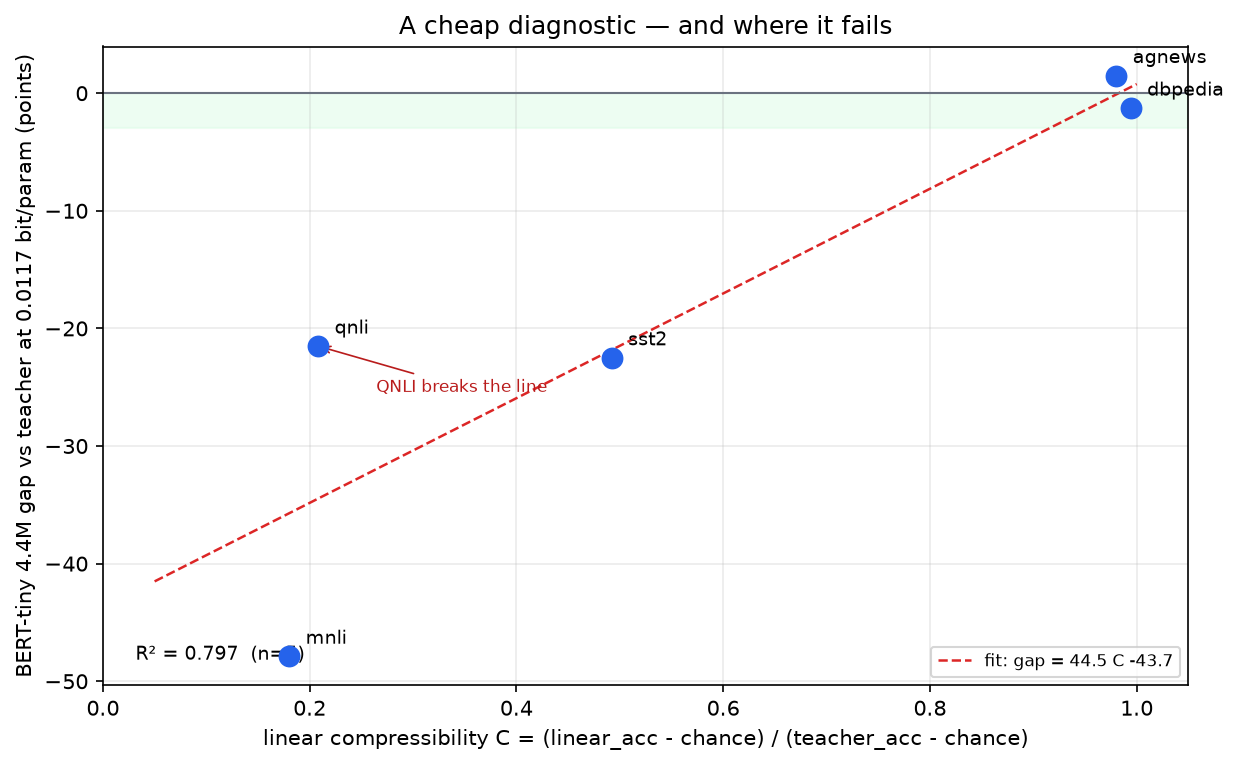
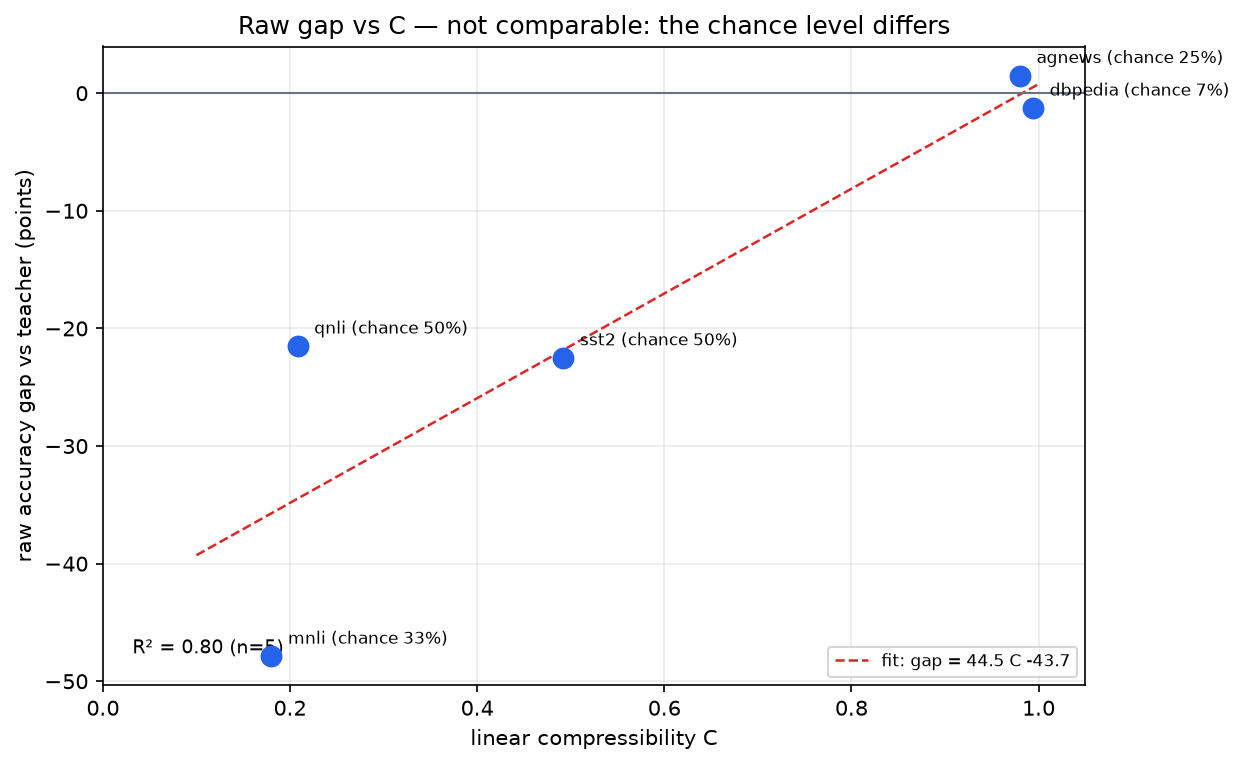
research: chance-normalized diagnostic - S = 1.04 C - 0.01, R2=0.965
- the raw accuracy gap is not comparable across chance levels
- normalized skill S is predicted by the cheap TF-IDF C almost 1:1
- five classification tasks: first predictive relationship, not a law

diff --git a/research/plot_diagnostic.py b/research/plot_diagnostic.py
@@ -1,4 +1,4 @@
-"""Plot the linear-compressibility diagnostic against the BERT-tiny gap."""
+"""Two diagnostic plots: the raw gap (misleading) and chance-normalized skill (predictive)."""
 import json
 from pathlib import Path
 
@@ -11,7 +11,8 @@ R = Path("research/results")
 OUT = Path("docs/figures")
 OUT.mkdir(exist_ok=True)
 
-TEACHER = {"agnews": 0.7525, "sst2": 0.9425, "mnli": 0.8471}
+TEACHER = {"agnews": 0.7525, "sst2": 0.9425, "mnli": 0.8471, "qnli": 0.8125, "dbpedia": 0.926}
+CHANCE = {"agnews": 25.0, "sst2": 50.0, "mnli": 100 / 3, "qnli": 50.0, "dbpedia": 100 / 14}
 FILES = {"agnews": "agnews_bert_tiny.json", "sst2": "sst2_bert_tiny.json",
          "mnli": "mnli_bert_tiny.json", "qnli": "qnli_bert_tiny.json",
          "dbpedia": "dbpedia_bert_tiny.json"}
@@ -33,38 +34,65 @@ for task, fname in FILES.items():
     c = c_map.get(task, d.get("C"))
     if c is None:
         continue
-    rows.append({"task": task, "C": c, "gap": row4["acc"] * 100 - teacher * 100})
+    student = row4["acc"] * 100
+    chance = CHANCE[task]
+    rows.append({"task": task, "C": c, "chance": chance,
+                 "gap": student - teacher * 100,
+                 "S": (student - chance) / (teacher * 100 - chance)})
 
 print(rows)
 x = np.array([r["C"] for r in rows])
-y = np.array([r["gap"] for r in rows])
-fig, ax = plt.subplots(figsize=(8.4, 5.2), dpi=150)
-ax.scatter(x, y, s=90, color="#2563eb", zorder=4)
-for r in rows:
-    ax.annotate(r["task"], (r["C"], r["gap"]), textcoords="offset points", xytext=(8, 6), fontsize=9)
-q = next((r for r in rows if r["task"] == "qnli"), None)
-if q:
-    ax.annotate("QNLI breaks the line", (q["C"], q["gap"]), textcoords="offset points",
-                xytext=(28, -22), fontsize=8, color="#b91c1c",
-                arrowprops=dict(arrowstyle="->", color="#b91c1c", lw=0.8))
-if len(rows) >= 2:
+gap = np.array([r["gap"] for r in rows])
+skill = np.array([r["S"] for r in rows])
+
+
+def fit_line(y):
     m, b = np.polyfit(x, y, 1)
-    xs = np.linspace(min(0.05, x.min()), max(1.0, x.max()), 100)
-    ax.plot(xs, m * xs + b, "--", color="#dc2626", lw=1.2,
-            label=f"fit: gap = {m:.1f} C {b:+.1f}")
     pred = m * x + b
     ss_res = float(((y - pred) ** 2).sum())
     ss_tot = float(((y - y.mean()) ** 2).sum())
-    r2 = 1 - ss_res / ss_tot if ss_tot else 0.0
-    ax.text(0.03, 0.04, f"R² = {r2:.3f}  (n={len(rows)})", transform=ax.transAxes, fontsize=9)
+    return m, b, (1 - ss_res / ss_tot if ss_tot else 0.0)
+
+
+# 1) raw gap — misleading because chance differs
+m, b, r2 = fit_line(gap)
+fig, ax = plt.subplots(figsize=(8.4, 5.2), dpi=150)
+ax.scatter(x, gap, s=90, color="#2563eb", zorder=4)
+for r in rows:
+    ax.annotate(f'{r["task"]} (chance {r["chance"]:.0f}%)', (r["C"], r["gap"]),
+                textcoords="offset points", xytext=(8, 6), fontsize=8)
+xs = np.linspace(0.1, 1.0, 100)
+ax.plot(xs, m * xs + b, "--", color="#dc2626", lw=1.2, label=f"fit: gap = {m:.1f} C {b:+.1f}")
+ax.text(0.03, 0.05, f"R² = {r2:.2f} (n={len(rows)})", transform=ax.transAxes, fontsize=9)
 ax.axhline(0, color="#6b7280", lw=1)
-ax.axhspan(-3, 0, color="#dcfce7", alpha=0.5, zorder=0)
 ax.set_xlim(0, 1.05)
-ax.set_xlabel("linear compressibility C = (linear_acc - chance) / (teacher_acc - chance)")
-ax.set_ylabel("BERT-tiny 4.4M gap vs teacher at 0.0117 bit/param (points)")
-ax.set_title("A cheap diagnostic — and where it fails")
+ax.set_xlabel("linear compressibility C")
+ax.set_ylabel("raw accuracy gap vs teacher (points)")
+ax.set_title("Raw gap vs C — not comparable: the chance level differs")
 ax.grid(alpha=0.25)
 ax.legend(fontsize=8, loc="lower right")
 fig.tight_layout()
 fig.savefig(OUT / "diagnostic.png", bbox_inches="tight")
-print("wrote docs/figures/diagnostic.png")
+plt.close(fig)
+
+# 2) normalized skill — the diagnostic that works
+m, b, r2 = fit_line(skill)
+fig, ax = plt.subplots(figsize=(8.4, 5.2), dpi=150)
+ax.scatter(x, skill, s=90, color="#059669", zorder=4)
+for r in rows:
+    ax.annotate(r["task"], (r["C"], r["S"]), textcoords="offset points", xytext=(8, 6), fontsize=9)
+xs = np.linspace(0.1, 1.0, 100)
+ax.plot(xs, m * xs + b, "--", color="#dc2626", lw=1.2,
+        label=f"fit: S = {m:.2f} C {b:+.2f}")
+ax.plot(xs, xs, ":", color="#9ca3af", lw=1, label="S = C")
+ax.text(0.03, 0.82, f"R² = {r2:.3f} (n={len(rows)})", transform=ax.transAxes, fontsize=10)
+ax.set_xlim(0, 1.05)
+ax.set_ylim(0, 1.12)
+ax.set_xlabel("linear compressibility C (cheap TF-IDF student)")
+ax.set_ylabel("normalized skill S of the 4.4M BERT-tiny student")
+ax.set_title("Chance-normalized skill: the cheap diagnostic works")
+ax.grid(alpha=0.25)
+ax.legend(fontsize=8, loc="lower right")
+fig.tight_layout()
+fig.savefig(OUT / "diagnostic_normalized.png", bbox_inches="tight")
+print(f"normalized fit: S = {m:.3f} C {b:+.3f}, R2 = {r2:.3f}")

diff --git a/docs/BEHAVIORAL_BITS.md b/docs/BEHAVIORAL_BITS.md
@@ -25,6 +25,10 @@ paper. Test sets and seeds are fixed before the run.
 - **The capacity wall is real.** The same 4.39M student at 0.0117 bit/param is +1.5 on
   AG News, -1.3 on DBPedia, -21.5 on QNLI, -22.5 on SST-2, and -47.9 on MNLI (36.8% vs
   33.3% chance; teacher 84.7%).
+- **A cheap diagnostic works in normalized skill.** `C` (a 45 KB TF-IDF student's
+  chance-normalized accuracy) predicts the 4.4M student's normalized skill:
+  **S = 1.04 C - 0.01, R² = 0.965** (5 tasks). The raw accuracy gap was misleading because
+  chance levels differ.
 - **Two walls, not one.** The bit wall is about how many bits a weight needs; the
   capacity wall is about how many parameters the behaviour needs. Distillation can move
   the first; it cannot move the second.
@@ -194,25 +198,36 @@ outputs nothing usable. Open-ended generation is the hardest regime in the table
    bigram; the SST-2 student is 10-22 points short. Reporting only the AG News win would
    be misleading.
 
-### A cheap diagnostic — and where it fails
+### A cheap diagnostic
 
-`C = (linear_acc - chance) / (teacher_acc - chance)` on the same teacher labels, using the
-best TF-IDF student from the sweep:
+The raw accuracy gap is not comparable across tasks: MNLI's -47.9 is on a 33% chance,
+QNLI's -21.5 on 50%, DBPedia's -1.3 on 7%. The raw-gap fit (R² = 0.80) is therefore a
+scaling artefact; it looks like QNLI and MNLI contradict each other.
 
-| task | teacher | TF-IDF best | C | BERT-tiny gap @ 0.0117 |
-|---|---:|---:|---:|---:|
-| AG News | 75.25% | 74.25% (5k) | 0.98 | +1.5 |
-| DBPedia | 92.60% | 92.09% (50k) | 0.99 | -1.3 |
-| SST-2 | 94.25% | 71.75% (1k) | 0.49 | -22.5 |
-| QNLI | 81.25% | 56.50% (5k) | 0.21 | -21.5 |
-| MNLI | 84.71% | 42.61% (2k) | 0.18 | -47.9 |
+Normalize by chance:
 
-The high-C cluster (AG News, DBPedia) is within 1.5 points. The low-C pair still breaks a
-single line: **QNLI and MNLI have almost the same C (0.21 vs 0.18) but gaps of -21.5 and
--47.9.** Five points give R² = 0.80; that is a description, not a law. QNLI is binary
-(chance 50%) and the 4.4M student clears chance by 10 points; MNLI is 3-way and the student
-is at chance. The student's inductive bias and the label structure matter. The next step is
-a multi-feature model, not a bigger fit on one number (`research/NEXT.md`).
+`S = (student - chance) / (teacher - chance)`
+
+| task | chance | C | S |
+|---|---:|---:|---:|
+| AG News | 25% | 0.98 | 1.03 |
+| DBPedia | 7.1% | 0.99 | 0.99 |
+| SST-2 | 50% | 0.49 | 0.49 |
+| QNLI | 50% | 0.21 | 0.31 |
+| MNLI | 33.3% | 0.18 | 0.07 |
+
+Fit: **S = 1.04 C - 0.01, R² = 0.965**. A 45 KB TF-IDF student predicts how much of the
+teacher's normalized skill a 4.4M transformer retains, almost 1:1. The residuals are ±0.1
+(QNLI +0.10, MNLI -0.11): where the linear model is weak, the transformer can be better;
+where the linear model is strong, the gap closes.
+
+This is a first predictive relationship, not a law: five classification tasks, no
+generation, and the linear model is a lower bound on what a better student can do. The
+next step is 10 tasks and a multi-feature model (`research/NEXT.md`).
+
+![Raw gap — misleading](figures/diagnostic.png)
+
+![Normalized skill — the one that works](figures/diagnostic_normalized.png)
 
 ## 7. A practical recipe
 

diff --git a/research/NEXT.md b/research/NEXT.md
@@ -21,17 +21,19 @@ The next question is whether the floor can be predicted **before** training a st
 ## Candidate predictors
 
 1. **Linear compressibility.** `C = (linear_acc - chance) / (teacher_acc - chance)`.
-   AG News: about 0.91. SST-2: about 0.49. The minimum bits should fall as C rises.
+   AG News 0.98, DBPedia 0.99, SST-2 0.49, QNLI 0.21, MNLI 0.18. The student's
+   chance-normalized skill should rise with C.
 2. **Teacher conditional entropy.** `H(Y|X)` on the test set, from the teacher's label
    distribution. Higher entropy should mean a higher floor.
 3. **Input/output length and class count.** Cheap, but probably weak.
 4. **The gap at a fixed tiny student.** This is what we are trying to predict, so it is
    a diagnostic, not a pre-hoc predictor.
 
-The five-point check: C fits the high-C cluster (AG News 0.98, DBPedia 0.99) but the
-QNLI/MNLI pair (C 0.21 / 0.18, gaps -21.5 / -47.9) breaks a single line. R² = 0.80 is a
-description, not a law. A multi-feature model (class count, chance level, linear gap,
-teacher entropy) is the next attempt, not a bigger fit on C.
+The five-point check: in **chance-normalized skill**
+`S = (student - chance) / (teacher - chance)`, C predicts S almost 1:1:
+**S = 1.04 C - 0.01, R² = 0.965**. The raw gap looked like a failure only because chance
+levels differ. This is the first working diagnostic; the next test is 10 tasks, including
+generation, and a check of the residuals (QNLI +0.10, MNLI -0.11).
 
 ## Experiment
 

diff --git a/research/README.md b/research/README.md
@@ -84,19 +84,21 @@ generation is the hardest regime; the 0.1-bit budget is not enough.
 
 ## Cheap diagnostic
 
-`C = (linear_acc - chance) / (teacher_acc - chance)` on the saved teacher labels:
+`C = (linear_acc - chance) / (teacher_acc - chance)` on the saved teacher labels. The raw
+gap is misleading because chance levels differ; normalize the student too:
+`S = (student - chance) / (teacher - chance)`.
 
-| task | teacher | TF-IDF best | C | BERT-tiny gap @ 0.0117 |
-|---|---:|---:|---:|---:|
-| AG News | 75.25% | 74.25% | 0.98 | +1.5 |
-| DBPedia | 92.60% | 92.09% | 0.99 | -1.3 |
-| SST-2 | 94.25% | 71.75% | 0.49 | -22.5 |
-| QNLI | 81.25% | 56.50% | 0.21 | -21.5 |
-| MNLI | 84.71% | 42.61% | 0.18 | -47.9 |
+| task | chance | C | S |
+|---|---:|---:|---:|
+| AG News | 25% | 0.98 | 1.03 |
+| DBPedia | 7.1% | 0.99 | 0.99 |
+| SST-2 | 50% | 0.49 | 0.49 |
+| QNLI | 50% | 0.21 | 0.31 |
+| MNLI | 33.3% | 0.18 | 0.07 |
 
-The high-C cluster is within 1.5 points; the QNLI/MNLI pair still breaks a single line
-(same C, gaps of -21.5 vs -47.9). Five points, R² = 0.80. A multi-feature model is needed;
-see `NEXT.md`.
+Fit: **S = 1.04 C - 0.01, R² = 0.965** (n=5). A 45 KB TF-IDF student predicts how much of
+the teacher's normalized skill a 4.4M transformer retains. Residuals ±0.1. This is a first
+predictive relationship, not a law; `NEXT.md` has the 10-task test.
 
 ## MNLI: a capacity failure, not a bit-rate result
 

diff --git a/research/ARTICLE.md b/research/ARTICLE.md
@@ -162,11 +162,15 @@ What I think is useful:
 4. **The negative results.** The 0.1-bit model is worse than a bigram; the SST-2 student is
    10–22 points short. Reporting only the AG News win would be misleading.
 
-A cheap diagnostic: `C = (linear_acc - chance) / (teacher_acc - chance)` on the same
-labels. C is 0.98 (AG News), 0.99 (DBPedia), 0.49 (SST-2), 0.21 (QNLI) and 0.18 (MNLI).
-The high-C cluster is within 1.5 points; **QNLI and MNLI have almost the same C but gaps of
--21.5 and -47.9.** Five points give R² = 0.80 — a description, not a law. A single metric is
-not enough; the next step is a multi-feature model.
+A cheap diagnostic: raw accuracy gaps are not comparable — MNLI's -47.9 is on a 33% chance,
+QNLI's -21.5 on 50%. Normalize both student and teacher by chance:
+`C = (linear - chance)/(teacher - chance)`, `S = (student - chance)/(teacher - chance)`.
+
+The five points are AG News (C 0.98, S 1.03), DBPedia (0.99, 0.99), SST-2 (0.49, 0.49),
+QNLI (0.21, 0.31), MNLI (0.18, 0.07). Fit: **S = 1.04 C - 0.01, R² = 0.965**. A 45 KB
+TF-IDF student predicts how much of the teacher's normalized skill a 4.4M transformer
+retains. That is a first predictive relationship, not a law: five classification tasks, no
+generation, and the linear model is a lower bound on what a better student can do.
 
 ## 7. Two walls
 

diff --git a/research/OZET_TR.md b/research/OZET_TR.md
@@ -85,11 +85,14 @@ Aynı öğrenci (BERT-tiny 4,4M), aynı 0,0117 bit/param:
 
 Aynı mimari, aynı byte, 48 puanlık aralık. **Bit tabanı davranışın özelliği.**
 
-Ucuz teşhis: `C = (doğrusal doğruluk − şans) / (öğretmen − şans)`. AG News 0,98,
-DBPedia 0,99, SST-2 0,49, QNLI 0,21, MNLI 0,18. Yüksek C kümesi 1,5 puan içinde;
-**QNLI/MNLI çifti tek çizgiyi bozuyor** (C'leri neredeyse aynı, farkları -21,5 vs -47,9).
-5 nokta, R² = 0,80 — bu bir yasa değil, betimleme. Çok özellikli model gerek; sıradaki
-adım 10 görev ve bir fit.
+Ucuz teşhis: ham doğruluk farkı karşılaştırılamaz (MNLI -47,9 ama şans %33; QNLI -21,5
+ama şans %50). Şansla normalize et: `C = (doğrusal − şans) / (öğretmen − şans)`,
+`S = (öğrenci − şans) / (öğretmen − şans)`.
+
+AG News (C 0,98 → S 1,03), DBPedia (0,99 → 0,99), SST-2 (0,49 → 0,49), QNLI (0,21 → 0,31),
+MNLI (0,18 → 0,07). Fit: **S = 1,04 C − 0,01, R² = 0,965**. 45 KB'lık TF-IDF öğrenci,
+4,4M transformer'ın öğretmenin ne kadarını tutacağını öngörüyor. Bu ilk öngörü ilişkisi;
+yasa değil (5 sınıflandırma görevi, generasyon yok). Sıradaki adım 10 görev ve bir fit.
 
 ## Dürüst konum
 

diff --git a/research/STATE.md b/research/STATE.md
@@ -62,10 +62,12 @@ architectures, the idea of task-specific compression.
 - The controlled same-student comparison across tasks (+1.5 / -21.5 / -22.5 / -47.9).
 - The honest negative results (0.1-bit VQ, single-metric diagnostic, teacher collapses).
 
-**Not yet:** a predictive law. A single metric `C` (linear compressibility) fits the
-high-C cluster (AG News 0.98, DBPedia 0.99) but **fails at the low end** (QNLI and MNLI
-have almost the same C, gaps -21.5 vs -47.9). Five points give R² = 0.80 — a description,
-not a law. The next attempt must be multi-feature.
+**A first predictive relationship:** the raw gap is misleading because chance levels
+differ. In chance-normalized skill `S = (student - chance) / (teacher - chance)`, a cheap
+45 KB TF-IDF student's `C` predicts `S`: **S = 1.04 C - 0.01, R² = 0.965** (5 tasks).
+The residuals are ±0.1 (QNLI +0.10, MNLI -0.11). This is not a law yet: five
+classification tasks, no generation, and the linear model is a lower bound on what a
+better student can do. The next test is 10 tasks.
 
 ## Failed attempts, kept as negative results
 
